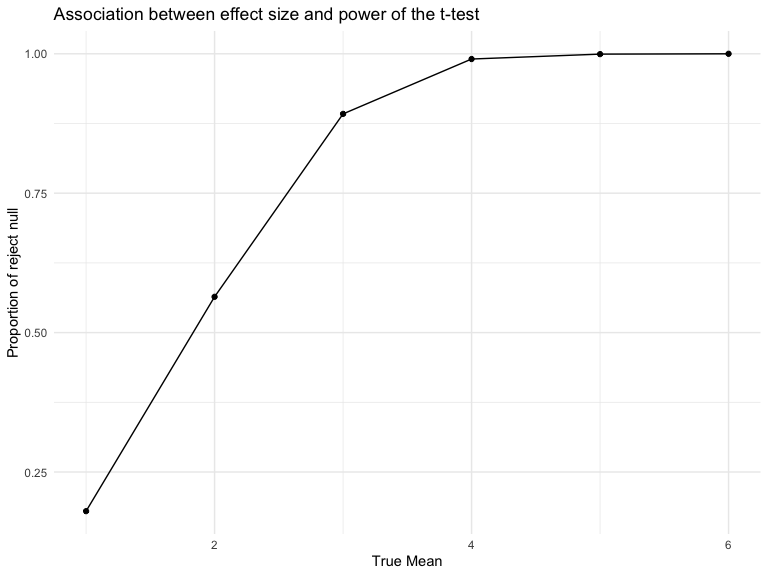
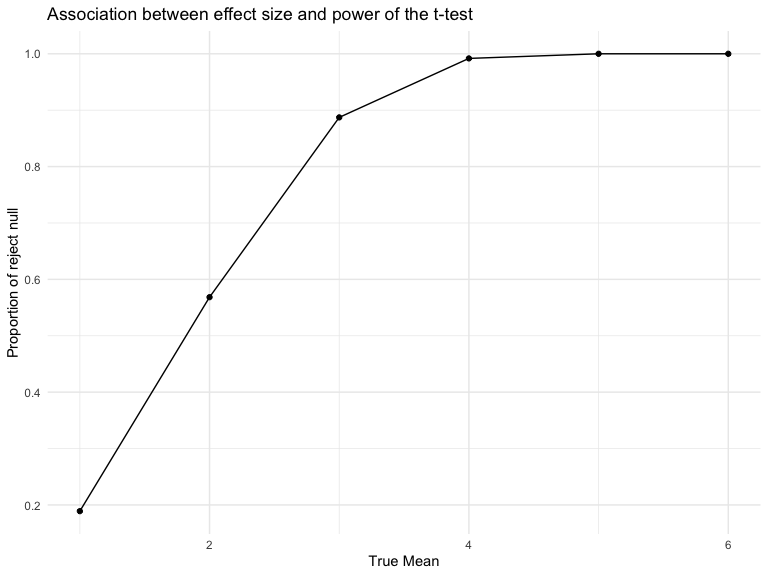
forgot to set seeds

diff --git a/p8105_hw5_hm2947.md b/p8105_hw5_hm2947.md
@@ -342,7 +342,7 @@ sim_t_test = function(n = 30, mu, sigma = 5) {
     select(estimate, p.value)
 }
 
-
+set.seed(1)
 sim_df0 = 
   expand_grid(
     mu = 0,
@@ -356,16 +356,16 @@ sim_df0
     ## # A tibble: 5,000 × 4
     ##       mu iterate estimate p.value
     ##    <dbl>   <int>    <dbl>   <dbl>
-    ##  1     0       1   0.416    0.623
-    ##  2     0       2  -0.591    0.463
-    ##  3     0       3  -0.0362   0.971
-    ##  4     0       4   0.803    0.241
-    ##  5     0       5  -0.105    0.909
-    ##  6     0       6   0.552    0.419
-    ##  7     0       7  -1.23     0.193
-    ##  8     0       8  -0.743    0.510
-    ##  9     0       9   0.0136   0.987
-    ## 10     0      10   0.446    0.573
+    ##  1     0       1    0.412  0.629 
+    ##  2     0       2    0.664  0.368 
+    ##  3     0       3    0.551  0.534 
+    ##  4     0       4    0.567  0.487 
+    ##  5     0       5   -1.65   0.0599
+    ##  6     0       6    1.19   0.229 
+    ##  7     0       7    0.334  0.738 
+    ##  8     0       8   -1.19   0.209 
+    ##  9     0       9    0.122  0.887 
+    ## 10     0      10    0.684  0.472 
     ## # … with 4,990 more rows
 
 ``` r
@@ -384,16 +384,16 @@ sim_df
     ## # A tibble: 30,000 × 4
     ##       mu iterate estimate p_value
     ##    <int>   <int>    <dbl>   <dbl>
-    ##  1     1       1   3.60   0.00205
-    ##  2     1       2   1.66   0.0295 
-    ##  3     1       3   0.998  0.192  
-    ##  4     1       4   0.177  0.833  
-    ##  5     1       5   0.346  0.649  
-    ##  6     1       6   1.99   0.0412 
-    ##  7     1       7   0.0387 0.963  
-    ##  8     1       8   1.34   0.154  
-    ##  9     1       9  -0.546  0.536  
-    ## 10     1      10   2.12   0.0202 
+    ##  1     1       1    1.52   0.0865
+    ##  2     1       2    2.11   0.0159
+    ##  3     1       3    2.01   0.0183
+    ##  4     1       4    0.165  0.839 
+    ##  5     1       5    0.108  0.912 
+    ##  6     1       6    1.56   0.0682
+    ##  7     1       7    2.04   0.0252
+    ##  8     1       8    2.40   0.0154
+    ##  9     1       9    2.15   0.0154
+    ## 10     1      10    0.500  0.634 
     ## # … with 29,990 more rows
 
 ### Making Plots
